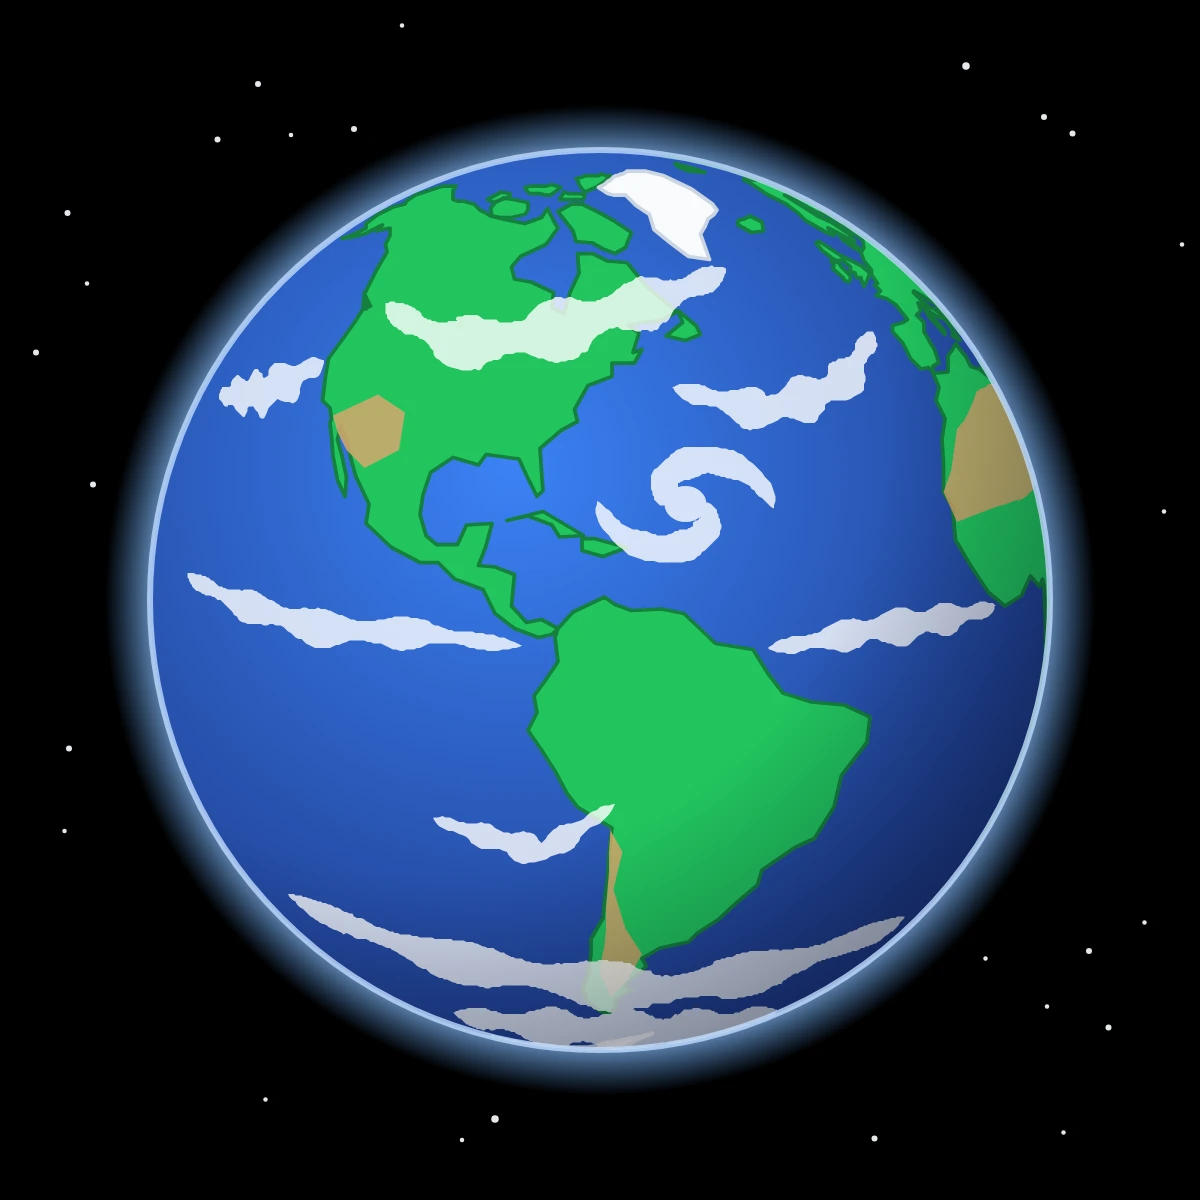
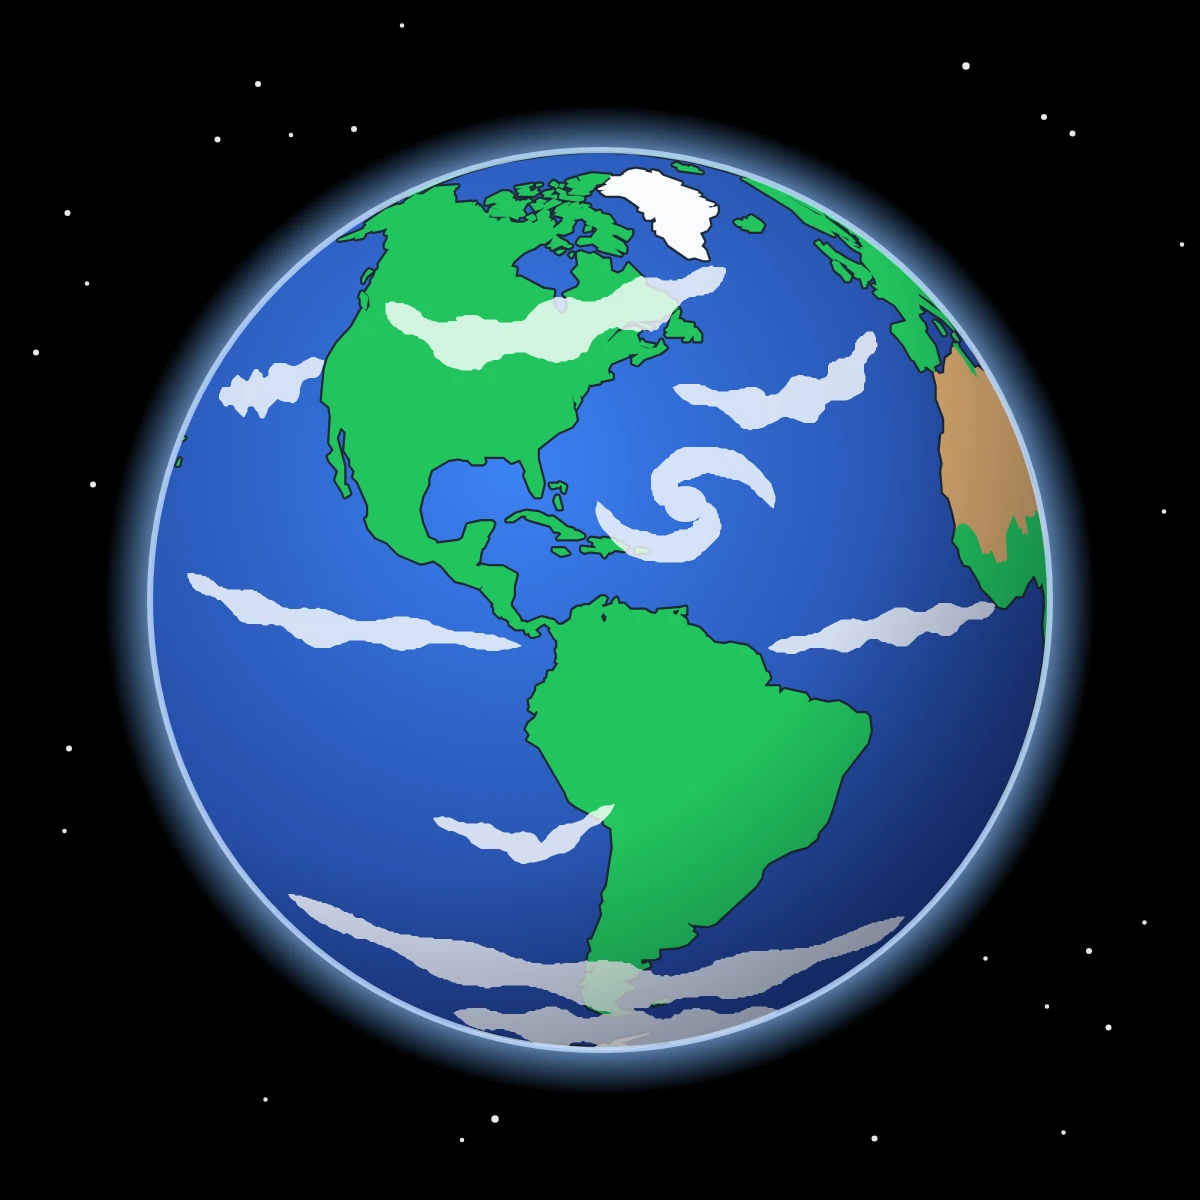
Redraw globe and U.S. weather-map outline from real coastlines
Earth from space now uses Natural Earth 1:110m land in an orthographic
view; the weather map's lower-48 outline is Natural Earth in an Albers
projection, with the stationary front moved inland and the rain area
clipped to land. Clouds, fronts and symbols are unchanged.

Claude-Session: https://claude.ai/code/session_01Kvbm7JDwwaSBPDPC8jMVfe

diff --git a/assets/images/README.md b/assets/images/README.md
@@ -16,5 +16,5 @@ To change one, edit its SVG and run
 SVGs, re-renders the WebPs (1200 px, under 250 KB) and rebuilds the manifest and sheet.
 
 Known simplifications: coin portraits are stylized profiles, the quarter back shows the
-classic heraldic eagle, maps and the globe use hand-simplified coastlines, and the graduated
+classic heraldic eagle, the world map, globe and U.S. outline use simplified Natural Earth coastlines (public-domain map data), and the graduated
 cylinder has 2 mL ticks.
